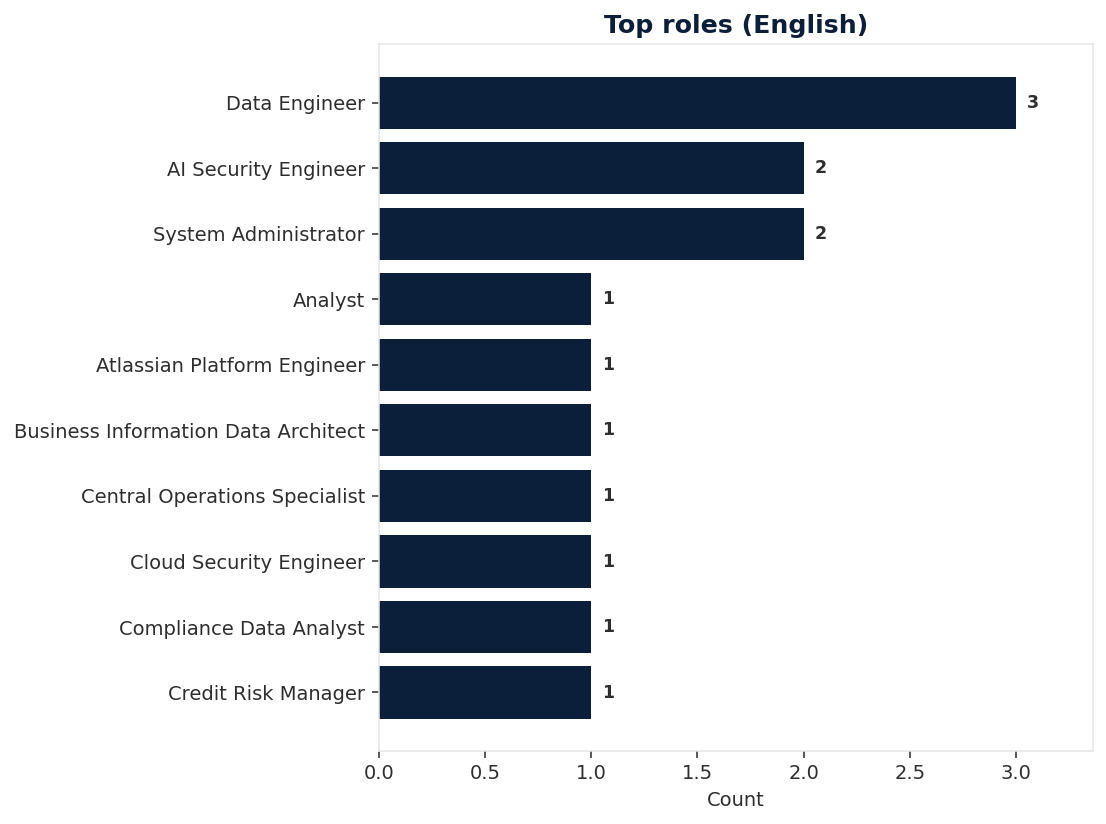
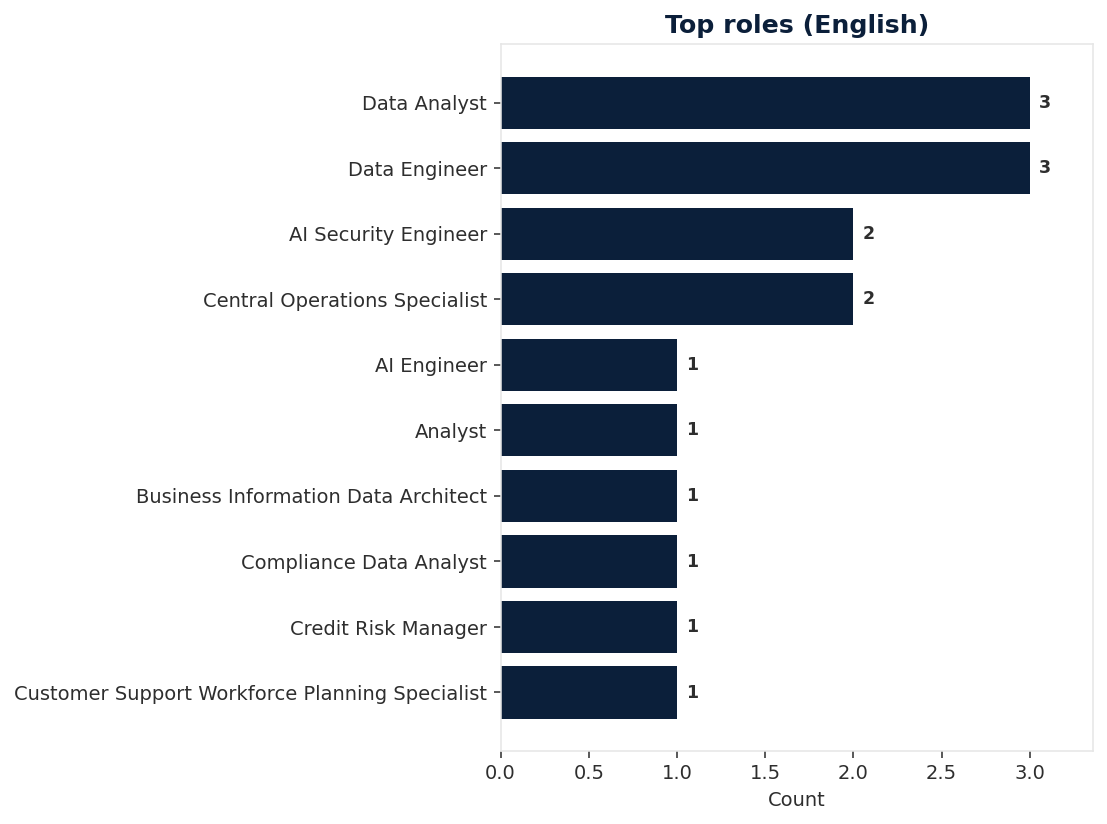
Update docs. Update UI.

diff --git a/tests/test_forecast_repository.py b/tests/test_forecast_repository.py
@@ -35,6 +35,15 @@ def test_save_and_list_run(session):
         results=[
             {
                 "model_name": "rf",
+                "target_type": "skill",
+                "target_key": "Python",
+                "horizon_months": 3,
+                "period_start": "2026-10-01",
+                "predicted_value": 8.0,
+                "metrics": None,
+            },
+            {
+                "model_name": "rf",
                 "target_type": "role",
                 "target_key": "Data Engineer",
                 "horizon_months": 3,
@@ -68,16 +77,19 @@ def test_save_and_list_run(session):
     assert run is not None
     assert run.training_window_months == 12
     results = repo.list_results(1)
-    assert len(results) == 3
-    # Grouped by model name, then highest value first
-    assert results[0].model_name == "arima"
-    assert results[1].model_name == "rf"
+    assert len(results) == 4
+    # model → type → highest value
+    assert [r.model_name for r in results] == ["arima", "rf", "rf", "rf"]
+    assert results[0].target_key == "ML Engineer"
+    assert results[1].target_type == "role"
     assert results[1].target_key == "Data Analyst"
     assert results[1].predicted_value == 20.0
     assert results[2].target_key == "Data Engineer"
     assert results[2].period_start == date(2026, 10, 1)
+    assert results[3].target_type == "skill"
+    assert results[3].target_key == "Python"
     assert session.query(ForecastRunORM).count() == 1
-    assert session.query(ForecastResultORM).count() == 3
+    assert session.query(ForecastResultORM).count() == 4
 
 
 def test_save_run_sanitizes_nan_in_meta_and_metrics(session):

diff --git a/src/dal/forecast_repository.py b/src/dal/forecast_repository.py
@@ -91,15 +91,15 @@ class ForecastRepository:
         )
 
     def list_results(self, run_id: int, *, limit: int = 500) -> list[ForecastResultORM]:
-        """List results grouped by model, highest predicted_value first within each model."""
+        """List results by model, then type, then highest predicted_value first."""
         return (
             self.session.query(ForecastResultORM)
             .filter(ForecastResultORM.run_id == run_id)
             .order_by(
                 ForecastResultORM.model_name.asc(),
+                ForecastResultORM.target_type.asc(),
                 ForecastResultORM.predicted_value.desc().nullslast(),
                 ForecastResultORM.horizon_months.asc(),
-                ForecastResultORM.target_type.asc(),
                 ForecastResultORM.target_key.asc(),
             )
             .limit(limit)

diff --git a/src/prediction/__init__.py b/src/prediction/__init__.py
@@ -1,4 +1,4 @@
-"""Time series prediction package (fake-file data now; DB source later)."""
+"""Time series prediction package (fake-file and database data sources)."""
 
 from src.prediction.data_source import DataSource, get_data_source
 

diff --git a/PROJECT_SUMMARY.md b/PROJECT_SUMMARY.md
@@ -2,16 +2,16 @@
 
 ## What this project is
 
-A **portfolio / WIP Python app** that:
+A **portfolio Python app** that:
 
 1. Accepts raw job posting text (CLI `.txt` path, or web paste / `.txt` upload)
 2. Uses an **LLM via OpenRouter** (model chain) to extract structured fields, with **local Ollama** as last resort when OpenRouter fails (e.g. free-tier limits)
-3. Validates with **Pydantic** plus domain rules
+3. Validates with **Pydantic** plus domain rules (including mid-chain checks so bad JSON can rotate to the next model)
 4. Resolves English role titles and skills from the **same** extraction response (glossary overrides when present)
 5. Saves postings and skills into **PostgreSQL** (SQLAlchemy + Alembic)
 6. Offers a **Flask UI** to review/edit postings, run descriptive analysis, and run forecasts
 7. Runs **descriptive analysis** (top companies/roles/skills, salary stats) and PNG chart export
-8. Runs **time series prediction** (baseline + Prophet/SARIMA/ARIMA/RF/HGB) on fake series today, with a switch for future DB aggregates
+8. Runs **time series prediction** (baseline + Prophet/SARIMA/ARIMA/RF/HGB) on **fake** series (`data/fake/`) and on **live DB aggregates** from saved `job_postings`
 
 **Stack:** Python, PostgreSQL, SQLAlchemy, Alembic, Flask + Jinja2, OpenRouter API, optional local Ollama, Pydantic, pandas/numpy/scikit-learn/statsmodels/Prophet, matplotlib, `python-dotenv`, `requests`, pytest
 
@@ -31,7 +31,7 @@ src/
 alembic/                    # migrations
 scripts/                    # fake job-market generator
 docs/analysis/              # analysis PNG charts
-docs/prediction/            # exported model_results.md
+docs/prediction/            # model_results_fake.md + model_results_database.md
 glossary/original_en.tsv    # original → English label glossary
 tests/                      # pytest suite
 ```
@@ -46,14 +46,16 @@ tests/                      # pytest suite
 |---------------|------|
 | `README.md` | Setup, CLI/web run, analysis charts, prediction notes, migrations |
 | `requirements.txt` | Pinned core stack + Flask, matplotlib, pandas, sklearn, statsmodels, prophet |
-| `.env.example` | API/DB/`MODEL`+fallbacks/Ollama/`SECRET_KEY`/`PREDICTION_DATA_SOURCE` |
+| `.env.example` | API/DB/`MODEL`+fallbacks/Ollama latency knobs/`SECRET_KEY`/`PREDICTION_DATA_SOURCE` |
 | `.gitignore` | `venv/`, `.env`, caches, `data/`, pytest artifacts |
 | `PROJECT_SUMMARY.md` | This document |
 | `pytest.ini` | `pythonpath = .`, `testpaths = tests` |
 | `alembic.ini` | Alembic config (URL injected from `.env`) |
 | `glossary/original_en.tsv` | User-corrected original → English pairs (no en→en) |
 | `scripts/generate_fake_job_market.py` | Builds `data/fake/` series for forecasting |
-| `docs/prediction/model_results.md` | Latest prediction export (training source + results) |
+| `docs/prediction/model_results_fake.md` | Latest fake-data prediction export |
+| `docs/prediction/model_results_database.md` | Latest database prediction export |
+| `docs/prediction/model_results.md` | Legacy pointer to the two files above |
 | `.cursor/` | Agent rules and implementation plans |
 
 ### Entry & config
@@ -61,7 +63,7 @@ tests/                      # pytest suite
 | File | Role |
 |------|------|
 | `src/main.py` | CLI menu; posting ingest + prediction prompts |
-| `src/config.py` | Loads `.env`; `validate_config()`; `llm_model_chain()`; `LLM_PROVIDER_MODE`; Ollama + prediction source |
+| `src/config.py` | Loads `.env`; `validate_config()`; `llm_model_chain()`; `LLM_PROVIDER_MODE`; Ollama + prediction source (`fake`\|`database`) |
 | `src/web/__main__.py` | Runs Flask app (`python -m src.web`); loopback bind, debug from env |
 | `src/web/__init__.py` | `create_app()` — CSRFProtect, blueprints for postings, analysis, prediction |
 | `src/web/runtime.py` | `SECRET_KEY` policy, `FLASK_HOST` / `FLASK_DEBUG` helpers |
@@ -72,14 +74,14 @@ tests/                      # pytest suite
 |------|------|
 | `posting_ingest.py` | Shared CLI/web entry: short lookup session → LLM (no session) → short save session |
 | `extraction_service.py` | Hash helpers, LLM extract → validate → entity; save with race re-check |
-| `job_posting_validator.py` | Domain rules (non-empty title, salary range, drop blank skills) |
+| `job_posting_validator.py` | Domain rules (non-empty title, salary range, skill list alignment) |
 | `glossary.py` | Lookup + save user-corrected original→English pairs (skip en→en) |
 | `analysis_service.py` | Thin façade: clamp top-N, delegate aggregates to `AnalysisRepository` |
 | `chart_export.py` | matplotlib PNGs under `docs/analysis/` |
 | `prediction_service.py` | Thin orchestrator for baseline + forecasts; timings; persist run |
 | `prediction_shortlist.py` / `prediction_*_runner.py` / `prediction_types.py` | Ranking, baseline/forecast loops, TargetType/RunStatus |
 | `posting_review_service.py` / `analysis_facade.py` / `prediction_history.py` | Web BLL façades |
-| `prediction_export.py` | Writes `docs/prediction/model_results.md` |
+| `prediction_export.py` | Writes `docs/prediction/model_results_{fake,database}.md` by data source |
 
 ### DTO (`src/dto/`)
 
@@ -113,9 +115,9 @@ tests/                      # pytest suite
 
 | File | Role |
 |------|------|
-| `data_source.py` | Protocol + `get_data_source()` factory |
+| `data_source.py` | Protocol + `get_data_source()` factory (`fake`\|`database`) |
 | `fake_file_source.py` | Loads monthly/weekly aggregates from `data/fake/` |
-| `database_source.py` | Quarantined stub (constructor raises; config rejects `database`) |
+| `database_source.py` | Aggregates live `job_postings` / skills by `date_added` (same schemas as fake) |
 | `baseline/` | MA, growth, market share, linear trend |
 | `models/` | Prophet, SARIMA, ARIMA, RF, HGB adapters |
 
@@ -125,9 +127,10 @@ tests/                      # pytest suite
 |------|------|
 | `base_llm_client.py` | Abstract `extract(posting_text) -> dict` |
 | `prompts.py` / `response_parse.py` | Shared extraction prompt + JSON/fence parsing |
-| `openrouter_client.py` | Extraction via OpenRouter model chain only (narrow recoverable errors) |
+| `extract_validate.py` | Mid-chain schema + domain check (`assert_extraction_usable`) for model rotation |
+| `openrouter_client.py` | Extraction via OpenRouter model chain; short-circuit + mid-chain validation |
 | `fallback_client.py` | `OpenRouterWithOllamaFallback` — compose Ollama after OpenRouter exhaustion |
-| `ollama_client.py` | Local Ollama `/api/chat` (`format: json`, `think: false`, no redirects) |
+| `ollama_client.py` | Local Ollama `/api/chat` (`format: json`, `think: false`, `num_predict`, `keep_alive`) |
 | `ollama_url.py` | `OLLAMA_BASE_URL` loopback allowlist (SSRF guard; remote opt-in) |
 | `errors.py` | `RECOVERABLE_LLM_ERRORS`, `OpenRouterChainExhausted` |
 | `error_messages.py` | User-facing messages for 429 / API key / timeout / Ollama / connection |
@@ -140,12 +143,12 @@ tests/                      # pytest suite
 |------|------|
 | `routes/postings.py` | `GET/POST /` ingest; `GET/POST /postings/<id>/edit` review/update |
 | `routes/analysis.py` | `GET/POST /analysis` descriptive queries + chart export |
-| `routes/prediction.py` | `GET/POST /prediction` forecast UI |
-| `templates/base.html` | Layout, nav, flash area, CSS link |
+| `routes/prediction.py` | `GET/POST /prediction` (fake) and `/prediction/database` (live aggregates) |
+| `templates/base.html` | Layout, nav (Add / Analysis / Prediction fake / Prediction database), flash, CSS |
 | `templates/postings/new.html` | Paste + file upload form |
-| `templates/postings/edit.html` | Editable extracted fields + English skills |
+| `templates/postings/edit.html` | Editable extracted fields + English skills (source of truth for links) |
 | `templates/analysis.html` | Analysis form + result tables |
-| `templates/prediction.html` | Prediction form + run summary (incl. shortlist meaning) |
+| `templates/prediction.html` | Shared prediction form + run summary (source-specific copy) |
 | `static/css/main.css` | Navy / dark red / dark gray / light gray design tokens |
 
 ### Migrations & tests
@@ -156,7 +159,7 @@ tests/                      # pytest suite
 | `alembic/versions/20260726_0002_…` | `country`, `city` |
 | `alembic/versions/20260726_0003_…` | `role_title_en`, `display_name_en` |
 | `alembic/versions/20260726_0004_…` | `forecast_runs`, `forecast_results` |
-| `tests/` | Config, ingest, OpenRouter/Ollama fallback (mocked), analysis, prediction, Flask routes, exports |
+| `tests/` | Config, ingest, OpenRouter/Ollama fallback (mocked), analysis, prediction (fake + DatabaseSource), Flask routes, exports |
 
 ---
 
@@ -187,11 +190,11 @@ flowchart TD
 1. **Startup** — validate env; Alembic migrates to `head`.
 2. **Input** — CLI: file path. Web: paste and/or `.txt` upload (file wins if present).
 3. **Dedup** — SHA-256 of stripped text; if known, skip LLM and return existing row.
-4. **LLM extraction** — fixed JSON schema; one successful call: `MODEL` → `FALLBACK_MODEL` → optional `FALLBACK_MODEL2`/`3` → then local Ollama (`qwen3.5:latest` by default, thinking off) if enabled.
-5. **Validation** — Pydantic schema, then domain rules.
+4. **LLM extraction** — fixed JSON schema; one successful call: `MODEL` → `FALLBACK_MODEL` → optional `FALLBACK_MODEL2`/`3` → then local Ollama if enabled. Short-circuit flags can skip remaining OpenRouter models after 429 / parse error / timeout. Mid-chain `assert_extraction_usable` rejects junk payloads so the next model can try.
+5. **Validation** — Pydantic schema, then domain rules (also re-checked in `ExtractionService`).
 6. **English labels** — from extract JSON + glossary override (no extra translation API calls)
 7. **Persistence** — posting + skills (unique on lowercase English name) + M2M links
-8. **Web only** — open review page; if user corrects translations, save real original→English pairs to glossary (skip English→English).
+8. **Web only** — open review page; English skills list is the source of truth for posting↔skill links; glossary saves real original→English corrections (skip English→English).
 
 ### Descriptive analysis flow
 
@@ -201,11 +204,11 @@ flowchart TD
 
 ### Prediction / forecasting flow
 
-1. CLI menu 2 or web `/prediction` — choose training window (12/24/36), horizons (3/6/12), models (one/some/all).
-2. Data source from `PREDICTION_DATA_SOURCE`: **`fake`** only today (`data/fake/` aggregates). `database` is rejected at config / factory until implemented.
+1. CLI menu 2, web `/prediction` (fake), or web `/prediction/database` — choose training window (12/24/36), horizons (3/6/12), models (one/some/all). Defaults favor `baseline` + `prophet` + `arima`.
+2. Data source: UI tabs pass `fake` or `database` explicitly; CLI uses `PREDICTION_DATA_SOURCE` (`fake` default; `database` allowed).
 3. Historical top-K roles/skills by posting volume become forecast targets (UI labels these “Top roles / Top skills”; not model ranking).
 4. Baseline + selected models forecast role demand, skill demand, and avg salary per role.
-5. Soft-fail per series; save `forecast_runs` / `forecast_results`; export `docs/prediction/model_results.md`.
+5. Soft-fail per series; save `forecast_runs` / `forecast_results`; export `docs/prediction/model_results_fake.md` or `model_results_database.md`.
 
 ---
 
@@ -231,7 +234,7 @@ raw posting text (str)
 | 5 | DTO + `validate_extraction_dto` | Schema + business rules |
 | 6 | Extract JSON + glossary | English role title and skills (no second LLM round-trip) |
 | 7 | Save session | `JobPostingRepository.save` + skill get_or_create; commit via `session_scope` |
-| 8 | Web edit (optional) | `update_review_fields`; glossary only for corrected non-identity translations |
+| 8 | Web edit (optional) | `update_review_fields`; form `skills_en` drives linked skills; glossary for corrected non-identity translations |
 
 ### Field mapping (high level)
 
@@ -241,7 +244,7 @@ raw posting text (str)
 | `role_title_en` | same extract call + glossary | Same as title if already English |
 | salary, deadline, location, country, city | LLM | optional |
 | `work_type`, nondiscrimination flag | LLM | enum / bool |
-| `skills` / `skills_en` | same extract call + glossary | DB skill `name` = lowercase English |
+| `skills` / `skills_en` | same extract call + glossary | DB skill `name` = lowercase English; review form EN list is source of truth |
 | `display_name` / `display_name_en` | first-seen original + English | on `skills` |
 | `content_hash`, `raw_text`, `date_added` | app | not from LLM inventively |
 
@@ -289,7 +292,8 @@ pytest
 | Flask insert + review/edit UI | Done |
 | Clearer AI error messages (429, key, Ollama timeout/unreachable, network) | Done |
 | Local Ollama fallback after OpenRouter exhaustion | Done (`OLLAMA_*` env; thinking disabled for qwen3.x) |
+| Mid-chain extract validation + OpenRouter short-circuit knobs | Done |
 | Alembic migrations + pytest | Done |
 | Descriptive analysis UI + README charts | Done |
-| Forecasting (fake data source + multi-model + persist/export) | Done |
-| Forecasting on live DB aggregates | Not ready — `PREDICTION_DATA_SOURCE=database` fail-closed at startup |
+| Forecasting on fake data + multi-model + persist/export | Done (`/prediction` → `model_results_fake.md`) |
+| Forecasting on live DB aggregates | Done (`/prediction/database` + `PREDICTION_DATA_SOURCE=database` → `model_results_database.md`) |

diff --git a/README.md b/README.md
@@ -37,7 +37,7 @@ Charts below are generated from the database when you run **Analysis** in the we
 - PostgreSQL
 - SQLAlchemy + Alembic (schema migrations)
 - Flask + Jinja2 (web UI for inserting postings, descriptive analysis, and prediction)
-- OpenRouter API (free-tier LLM) for structured extraction, with local Ollama (`qwen3.5:latest`) when OpenRouter is exhausted
+- OpenRouter API (free-tier LLM) for structured extraction, with local Ollama when OpenRouter is exhausted (`OLLAMA_MODEL`; code default `qwen3.5:latest`, faster example `llama3.2:latest`)
 - Pydantic for schema validation
 - matplotlib (analysis chart PNGs for the UI export / README)
 - pandas / numpy / scikit-learn / statsmodels / Prophet (time series prediction)
@@ -48,14 +48,14 @@ Job postings are entered manually (copy-paste or `.txt` upload), covering a broa
 
 ## Project status
 
-The planned functionalities have been implemented. Due to the small amount of real data, currently synthetically generated data is used for forecasting.
+Core features are implemented: LLM extract/save, review/edit, descriptive analysis on live Postgres, and forecasting on both **fake** series (`data/fake/`) and **database** aggregates from saved postings. With little real posting history, fake data remains the practical default for full multi-month forecasts; the database prediction tab works when enough postings exist over time.
 
 ## Prerequisites
 
 - Python 3.10+ recommended
 - A running PostgreSQL database you can connect to
-- An OpenRouter API key and model IDs for primary + fallback extraction
-- Optional: [Ollama](https://ollama.com/) with `OLLAMA_MODEL` pulled (default `qwen3.5:latest`) for local fallback when OpenRouter is exhausted
+- An OpenRouter API key and model IDs for primary + fallback extraction (unless `LLM_PROVIDER_MODE=ollama_only`)
+- Optional: [Ollama](https://ollama.com/) with your `OLLAMA_MODEL` pulled for local fallback when OpenRouter is exhausted
 
 ## Setup
 
@@ -116,7 +116,8 @@ The planned functionalities have been implemented. Due to the small amount of re
    - `OPENROUTER_SHORTCIRCUIT_ON_RATE_LIMIT` / `_ON_PARSE_ERROR` / `_ON_TIMEOUT` (default `true`): after 429, truncated/non-JSON, or timeout, skip remaining OpenRouter models and go straight to Ollama when enabled. Set `false` if you use paid models that should all be tried.
    - After **all** OpenRouter models fail (or short-circuit), the app tries local **Ollama** when `OLLAMA_FALLBACK_ENABLED=true` (default). Fallback is composed in the LLM factory (`OpenRouterWithOllamaFallback`), not nested inside the OpenRouter client. In `ollama_only` mode, Ollama is the only provider. Requires Ollama running (`ollama serve`).
    - Ollama calls use `think: false` (needed for qwen3.x so chain-of-thought does not blow past the timeout). Prefer `OLLAMA_TIMEOUT_SECONDS=120` (or higher for larger local models).
-   - For **faster local fallback**, use a smaller pulled model (default example `llama3.2:latest`; `qwen3.5` is stronger but slower) and warm it before demos: `ollama run <model>`. `OLLAMA_KEEP_ALIVE` (default `10m`) keeps the model loaded between calls.   - `OLLAMA_BASE_URL` must be loopback by default (`127.0.0.1`, `localhost`, or `::1`) to avoid SSRF. Set `OLLAMA_ALLOW_REMOTE=true` only for a trusted remote Ollama.
+   - For **faster local fallback**, use a smaller pulled model (example `llama3.2:latest`; code default `qwen3.5:latest` is stronger but slower) and warm it before demos: `ollama run <model>`. `OLLAMA_KEEP_ALIVE` (default `10m`) keeps the model loaded between calls.
+   - `OLLAMA_BASE_URL` must be loopback by default (`127.0.0.1`, `localhost`, or `::1`) to avoid SSRF. Set `OLLAMA_ALLOW_REMOTE=true` only for a trusted remote Ollama.
    - `SECRET_KEY` is required for the Flask UI unless `FLASK_ENV=development` (known placeholders are rejected). Use a long random value for anything beyond trusted local use.
    - `FLASK_HOST` defaults to `127.0.0.1` (loopback). The app has **no authentication** — do not bind to `0.0.0.0` on an untrusted network.
    - `FLASK_DEBUG` defaults to `false`. Only enable for local debugging; never expose the debugger remotely.
@@ -190,9 +191,9 @@ Then open the URL shown in the terminal (typically `http://127.0.0.1:5000/`). Th
 - Uploads must be UTF-8 `.txt` (other extensions and binary content are rejected). Mutating forms are CSRF-protected.
 - If a file is uploaded, it is used instead of the pasted text.
 - After save you are taken to a **review/edit** page for company, titles, salary, work type, disclaimer, location/country/city, and English skills.
-- Saving edits updates the database. If you correct a non-English → English translation on the review page, that pair is saved to `glossary/original_en.tsv` (English→English pairs are skipped; glossary is not filled on initial extract).
+- Saving edits updates the database. The English skills list on the review form is the source of truth for which skills stay linked to the posting. If you correct a non-English → English translation, that pair is saved to `glossary/original_en.tsv` (English→English pairs are skipped; glossary is not filled on initial extract).
 - Open **Analysis** (`/analysis`) to query top companies, top English roles, salary min/avg/max (nulls excluded), and top English skills. Results show on the page and refresh PNG charts under `docs/analysis/` (linked in [Sample analyses](#sample-analyses) above).
-- Open **Prediction (fake)** (`/prediction`) for forecasts on `data/fake/` series, or **Prediction (database)** (`/prediction/database`) for the same models on aggregates from saved job postings. Default model selection is `baseline`, `prophet`, and `arima`; choose more (or all) explicitly. Outcomes are stored in PostgreSQL. The “Top roles / Top skills” lines on the results page are the **historical shortlist** used as forecast targets (by past posting volume), not the models’ predicted ranking.
+- Open **Prediction (fake)** (`/prediction`) for forecasts on `data/fake/` series, or **Prediction (database)** (`/prediction/database`) for the same models on aggregates from saved job postings (by `date_added`). Default model selection is `baseline`, `prophet`, and `arima`; choose more (or all) explicitly. Outcomes are stored in PostgreSQL; markdown exports go to `docs/prediction/model_results_fake.md` or `model_results_database.md`. The “Top roles / Top skills” lines are the **historical shortlist** used as forecast targets (by past posting volume), not the models’ predicted ranking.
 - Success, duplicate, and error messages appear as flash banners.
 - The CLI remains fully functional alongside the web UI.
 
@@ -204,7 +205,7 @@ From the project root (venv activated):
 pytest
 ```
 
-Tests cover config validation, domain rules, content-hash dedup (LLM mocked), OpenRouter model chain + Ollama fallback (HTTP mocked), posting size / Ollama URL / CSRF / web runtime hardening, LLM provider mode + metadata logging, skill get-or-create, analysis aggregations (in-memory SQLite), prediction baseline/models/orchestration (fake mini datasets; Flask prediction mocked), and Flask insert/analysis/prediction routes (ingest/DB mocked). They do not call OpenRouter, Ollama, or require PostgreSQL (`tests/conftest.py` blocks live LLM HTTP if a mock is missing).
+Tests cover config validation, domain rules, content-hash dedup (LLM mocked), OpenRouter model chain + Ollama fallback (HTTP mocked), posting size / Ollama URL / CSRF / web runtime hardening, LLM provider mode + metadata logging, skill get-or-create and review skill updates, analysis aggregations (in-memory SQLite), prediction baseline/models/orchestration (fake mini datasets), `DatabaseSource` aggregates (SQLite), Flask prediction fake/database routes (orchestration mocked), and Flask insert/analysis routes (ingest/DB mocked). They do not call OpenRouter, Ollama, or require PostgreSQL (`tests/conftest.py` blocks live LLM HTTP if a mock is missing).
 
 ## Database migrations (Alembic)
 

diff --git a/docs/prediction/model_results_database.md b/docs/prediction/model_results_database.md
@@ -2,14 +2,14 @@
 
 Auto-generated when you run **Prediction (database)** in the web UI or CLI. Rows within each model are ordered by predicted value (highest first).
 
-- **Generated at:** 2026-07-30T05:59:27
-- **Run id:** 7
+- **Generated at:** 2026-08-01T15:36:42
+- **Run id:** 16
 - **Status:** completed
 - **Training data source:** Real database aggregates (PostgreSQL `job_postings` / skills)
 - **Training window (months):** 12
 - **Horizons:** 3
 - **Models:** baseline
-- **Elapsed (seconds):** 0.14
+- **Elapsed (seconds):** 0.183
 
 ## Training data
 
@@ -19,46 +19,46 @@ Models were trained on series built from saved job postings in the database. Fak
 
 | Model | Seconds |
 |-------|---------|
-| `baseline` | 0.076 |
+| `baseline` | 0.092 |
 
 ## Top roles & top skills (historical shortlist)
 
 These lists are **not** the models' forecast of future popularity. Before forecasting, roles and skills are ranked by **historical posting volume** inside the training window (highest count first); the top K (default 15) become the forecast targets. Every selected model then runs on that same shortlist. Order below = historical volume, not predicted rank.
 
-- **Top roles (historical):** Data Engineer, AI Security Engineer, System Administrator, Business Information Data Architect, Analyst, Central Operations Specialist, Cloud Security Engineer, Credit Risk Manager, Compliance Data Analyst, Customer Support Workforce Planning Specialist, Data Protection Manager, Database Administrator, Atlassian Platform Engineer, DevOps Engineer, Developer
-- **Top skills (historical):** Python, SQL, Java, Networking, Kubernetes, English, bash, Tableau, AWS, Communication, Docker, Project management, Confluence, CI/CD, cloud
+- **Top roles (historical):** Data Analyst, Data Engineer, Central Operations Specialist, AI Security Engineer, AI Engineer, Business Information Data Architect, Compliance Data Analyst, Credit Risk Manager, Analyst, Customer Support Workforce Planning Specialist, Data Protection Manager, Data Quality & BI QA Engineer, Data Warehouse Developer, Database Administrator, DevOps Engineer
+- **Top skills (historical):** Python, SQL, Tableau, Looker, R, bash, Power BI, Java, Excel, DBT, AWS, Linux, PowerShell, KNIME, English
 
 ## Model: `baseline`
 
 | Type | Target | Horizon | Period | Value |
 |------|--------|---------|--------|-------|
-| baseline_skill | Python | 0 | — | 20 |
-| baseline_skill | SQL | 0 | — | 16 |
-| baseline_skill | Java | 0 | — | 7 |
-| baseline_skill | Kubernetes | 0 | — | 5 |
-| baseline_skill | Networking | 0 | — | 5 |
-| baseline_skill | AWS | 0 | — | 4 |
-| baseline_skill | Communication | 0 | — | 4 |
-| baseline_skill | English | 0 | — | 4 |
-| baseline_skill | Tableau | 0 | — | 4 |
-| baseline_skill | bash | 0 | — | 4 |
-| baseline_role | Data Engineer | 0 | — | 3 |
-| baseline_skill | CI/CD | 0 | — | 3 |
-| baseline_skill | Confluence | 0 | — | 3 |
-| baseline_skill | Docker | 0 | — | 3 |
-| baseline_skill | Project management | 0 | — | 3 |
-| baseline_skill | cloud | 0 | — | 3 |
+| baseline_skill | Python | 0 | — | 6 |
+| baseline_skill | SQL | 0 | — | 6 |
+| baseline_skill | Power BI | 0 | — | 4 |
+| baseline_skill | DBT | 0 | — | 3 |
+| baseline_skill | Linux | 0 | — | 3 |
 | baseline_role | AI Security Engineer | 0 | — | 2 |
-| baseline_role | System Administrator | 0 | — | 2 |
+| baseline_role | Data Analyst | 0 | — | 2 |
+| baseline_skill | AWS | 0 | — | 2 |
+| baseline_skill | English | 0 | — | 2 |
+| baseline_skill | Java | 0 | — | 2 |
+| baseline_skill | KNIME | 0 | — | 2 |
+| baseline_skill | R | 0 | — | 2 |
+| baseline_skill | Tableau | 0 | — | 2 |
+| baseline_role | AI Engineer | 0 | — | 1 |
 | baseline_role | Analyst | 0 | — | 1 |
-| baseline_role | Atlassian Platform Engineer | 0 | — | 1 |
 | baseline_role | Business Information Data Architect | 0 | — | 1 |
 | baseline_role | Central Operations Specialist | 0 | — | 1 |
-| baseline_role | Cloud Security Engineer | 0 | — | 1 |
 | baseline_role | Compliance Data Analyst | 0 | — | 1 |
 | baseline_role | Credit Risk Manager | 0 | — | 1 |
 | baseline_role | Customer Support Workforce Planning Specialist | 0 | — | 1 |
+| baseline_role | Data Engineer | 0 | — | 1 |
 | baseline_role | Data Protection Manager | 0 | — | 1 |
+| baseline_role | Data Quality & BI QA Engineer | 0 | — | 1 |
+| baseline_role | Data Warehouse Developer | 0 | — | 1 |
 | baseline_role | Database Administrator | 0 | — | 1 |
 | baseline_role | DevOps Engineer | 0 | — | 1 |
-| baseline_role | Developer | 0 | — | 1 |
+| baseline_skill | Excel | 0 | — | 1 |
+| baseline_skill | Looker | 0 | — | 1 |
+| baseline_skill | PowerShell | 0 | — | 1 |
+| baseline_skill | bash | 0 | — | 1 |
